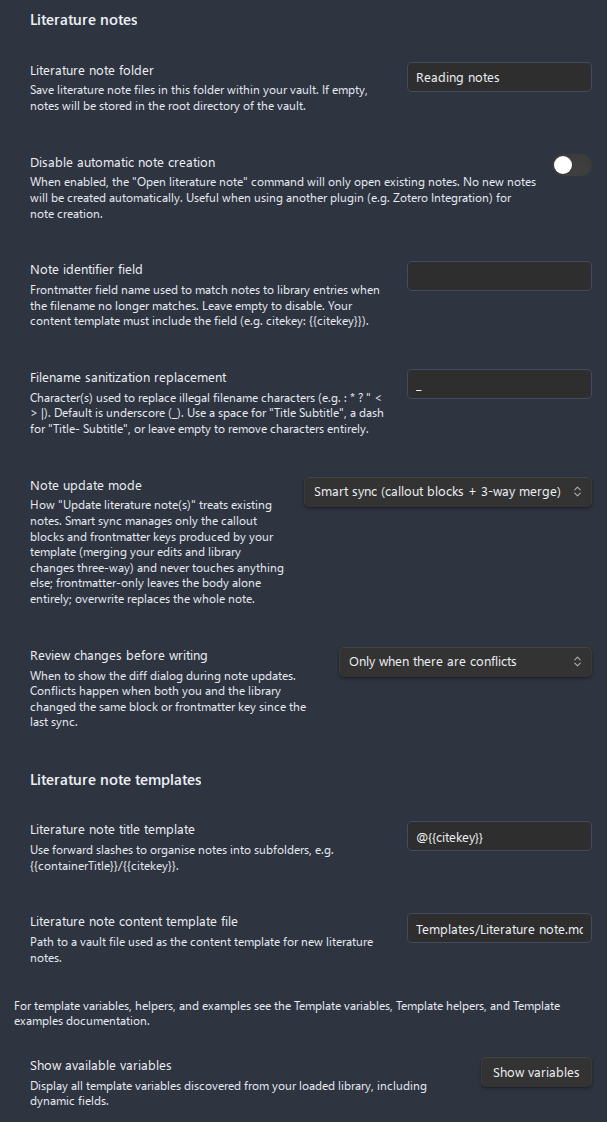
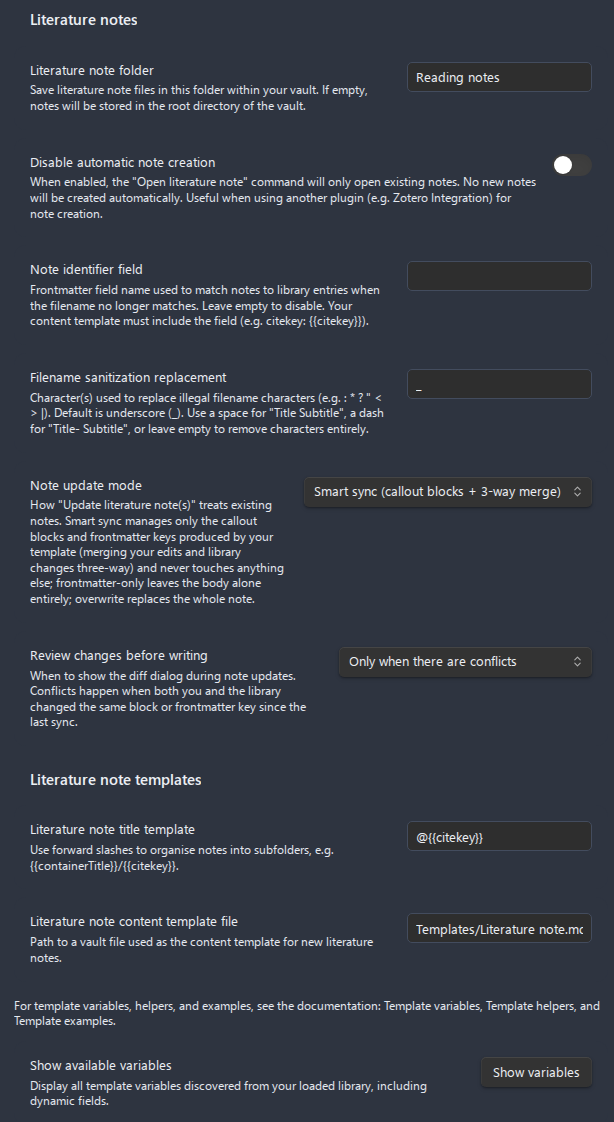
docs(settings): show the section pages of Obsidian 1.13 and the new links line
On Obsidian 1.13 and later the settings tab now opens as five section pages, so the configuration
page says so, adds a figure of that list, and states that the settings search finds a section by
its name only. The two figures that show the line linking the template documentation are rendered
again with its new wording, from the same seeded library as before. The API boundary table lists
SettingPage among what src/ui imports from obsidian.

diff --git a/docs/architecture.md b/docs/architecture.md
@@ -1588,7 +1588,7 @@ Direct `import ... from 'obsidian'` only in:
 | `src/sources/vault-file-source.ts`     | `Vault`, `TFile`                                                                                             |
 | `src/services/command-registry.ts`     | `App`, `Plugin`                                                                                              |
 | `src/services/context-menu-handler.ts` | `App`, `Plugin`, `Menu`, `Editor`                                                                            |
-| `src/ui/`                              | `Modal`, `SuggestModal`, `PluginSettingTab`, `Setting`, `Notice`, `debounce`                                 |
+| `src/ui/`                              | `Modal`, `SuggestModal`, `PluginSettingTab`, `SettingPage`, `Setting`, `Notice`, `debounce`                  |
 | `src/main.ts`                          | `Plugin`                                                                                                     |
 
 **Never import `obsidian`:** `src/application/`, `src/library/`, `src/notes/`, `src/template/`, `src/core/`, `src/domain/`, `src/search/`, `src/infrastructure/`.

diff --git a/docs/configuration.md b/docs/configuration.md
@@ -2,6 +2,12 @@
 
 All settings are accessible in **Settings** > **Citation Extended**.
 
+On Obsidian 1.13 and later, the tab lists the five sections below as pages, and each opens with the same settings. The settings search finds a section by its name, such as `Literature notes`, but not a single setting inside it.
+
+![The settings tab on Obsidian 1.13 and later, with one page per section](images/settings-pages.png)
+
+On older versions of Obsidian, every section is shown on one page.
+
 ![Citation databases and literature notes settings](images/settings-overview_1.png)
 ![Fragment profiles, Markdown citation and display settings](images/settings-overview_2.png)
 
